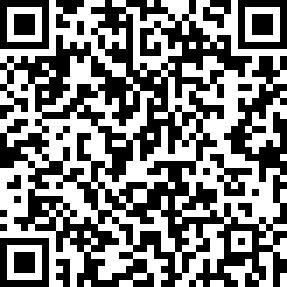
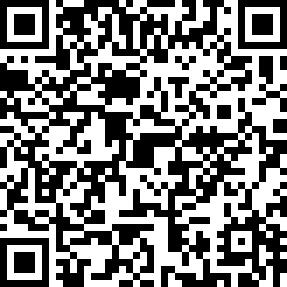
更新人物

diff --git a/html/xueli_renzheng.html b/html/xueli_renzheng.html
@@ -436,7 +436,7 @@
 														<tr>
 															<td width="81">姓　　名：</td>
 															<td class="songTi">
-																<div class="width250">尹兆伟</div>
+																<div class="width250">高广涛</div>
 															</td>
 														</tr>
 														<tr>
@@ -445,7 +445,7 @@
 														</tr>
 														<tr>
 															<td>出生日期：</td>
-															<td class="songTi">1990年06月26日</td>
+															<td class="songTi">1971年01月20日</td>
 														</tr>
 														<tr>
 															<td>学历类别：</td>
@@ -457,11 +457,11 @@
 														</tr>
 														<tr>
 															<td>院校名称：</td>
-															<td class="songTi">第二军医大学</td>
+															<td class="songTi">内蒙古工业大学</td>
 														</tr>
 														<tr>
 															<td>专业名称：</td>
-															<td class="songTi">临床医学</td>
+															<td class="songTi">电气工程及其自动化</td>
 														</tr>
 														<tr>
 															<td>学习形式：</td>
@@ -469,15 +469,15 @@
 														</tr>
 														<tr>
 															<td>学　　制：</td>
-															<td class="songTi">五年</td>
+															<td class="songTi">四年</td>
 														</tr>
 														<tr>
 															<td>入学日期：</td>
-															<td class="songTi">2012年09月</td>
+															<td class="songTi">1989年09月</td>
 														</tr>
 														<tr>
 															<td>毕业日期：</td>
-															<td class="songTi">2017年06月</td>
+															<td class="songTi">1993年07月</td>
 														</tr>
 														<tr>
 															<td>毕&ensp;结&ensp;业：</td>
@@ -485,28 +485,28 @@
 														</tr>
 														<tr>
 															<td>证书编号：</td>
-															<td class="songTi">900301201705200556</td>
+															<td class="songTi">10128</td>
 														</tr>
 													</table>
 													<div class="cj-index-order heiTi" style="font-weight: 600;">
 														以上学历情况属实，专此认证。</div>
 												</div>
 												<div class="cj-page-sheet bgbhL8"> 报告编号：<span
-														class="bh-style">9236706</span><br />
-													打印日期：<span class="dyrq">2024-02-27</span></div>
+														class="bh-style">11922004</span><br />
+													打印日期：<span class="dyrq">2023-07-03</span></div>
 											</div>
 										</div>
 										<div class="cj-page-footer">
 											<div class="cj-two-dimensional-code"><img width="60" height="60"
-													src="../img/9236706.png" alt="点击右上角图标可下载二维码" title="点击右上角图标可下载二维码">
+													src="../img/10128.png" alt="点击右上角图标可下载二维码" title="点击右上角图标可下载二维码">
 											</div><span class="heiTi font14"
 												style="position: absolute;bottom: 2px;line-height:24px;left: 72px;width: 205px;">认证报告在线验证网址：<br />https://www.chsi.com.cn/xlrz/</span>
 										</div>
 									</div>
 								</div>
 								<div style="text-align: center; margin-top: 45px;"><img style="width: 646px;"
-										src="../img/9236706.jpg" alt=""></div>
-								<div class="cj-page nobackground" title="../img/9236706.jpg"
+										src="../img/10128.jpg" alt=""></div>
+								<div class="cj-page nobackground" title="../img/10128.jpg"
 									style="text-align:center;">&nbsp;<br /><img
 										src='https://t1.chei.com.cn/common/images/loading.gif'
 										class="loadingIMG" /><br /><br />
@@ -524,7 +524,7 @@
 											</div>
 										</li>
 										<li><a href="https://www.chsi.com.cn/xlrz/attachments/originalimage/11922004-11-F82B3BF8/0-20220927"
-												target="_blank"><img alt="原件缩略图" src="../img/9236706.jpg" /></a>
+												target="_blank"><img alt="原件缩略图" src="../img/10128.jpg" /></a>
 											<div class="s-img-name">
 												毕业证书
 											</div>

diff --git a/html/gindexh5.html b/html/gindexh5.html
@@ -7,6 +7,19 @@
     <link rel="stylesheet" type="text/css" href="../css/style.css">
     <meta name="viewport" content="width=device-width, initial-scale=1.0, maximum-scale=1.0, minimum-scale=1.0, user-scalable=no" />
     <title>中央广播电视中等专业学校毕业生登记表验证结果</title>
+	<script src="../js/jquery.min.js"></script>
+	<script>
+	    $(window).load(function() {
+	        var h = $('.table table').height();
+	        $('.bg').height(h + 'px');
+			 var nowDate = new Date();
+			 var year = nowDate.getFullYear();
+			 var month = nowDate.getMonth() + 1 < 10 ? "0" + (nowDate.getMonth() + 1) : nowDate.getMonth() + 1;
+			 var date = nowDate.getDate() < 10 ? "0" + nowDate.getDate() : nowDate.getDate();
+			$('.time').text(year + "-" + month + "-" + date)
+	    });
+		
+	</script>
 </head>
 
 <body class="tableBody">
@@ -86,7 +99,7 @@
 </body>
 
 </html>
-<script src="../js/jquery.min.js"></script>
+<!-- <script src="../js/jquery.min.js"></script>
 <script>
     $(window).load(function() {
         var h = $('.table table').height();
@@ -98,4 +111,4 @@
 		$('.time').text(year + "-" + month + "-" + date)
     });
 	
-</script>
+</script> -->

diff --git a/html/gindex.html b/html/gindex.html
@@ -228,7 +228,7 @@
 								style="width:120pt;border-left:none;border-right:1pt outset windowtext;border-top:1pt outset windowtext;border-bottom:1pt outset windowtext;">
 								<p class=tdNormal>
 									<span style="font-family:宋体;font-size:7pt;">
-										<img style="width: 101%;" width="120" height="140" src="../img/devbiyez.jpg">
+										<!-- <img style="width: 101%;" width="120" height="140" src="../img/devbiyez.jpg"> -->
 									</span>
 								</p>
 							</td>
@@ -1021,7 +1021,7 @@
 						<td width=413 valign=center colspan=6
 							style="width:300pt;border-left:none;border-right:1pt outset windowtext;border-top:none;border-bottom:1pt outset windowtext;position:relative;font-weight:bold;">
 							<div class="seal" style="z-index:999;">
-								<img src="../img/seal1.png" alt="">
+								<!-- <img src="../img/seal1.png" alt=""> -->
 							</div>
 							<p class=tdNormal align=center style="margin-top:5pt;margin-bottom:5pt;">
 								<span

diff --git a/html/index11922004.html b/html/index11922004.html
@@ -456,7 +456,7 @@
 														</tr>
 														<tr>
 															<td>学历类别：</td>
-															<td class="songTi">普通</td>
+															<td class="songTi">普通高等教育</td>
 														</tr>
 
 														<tr>
